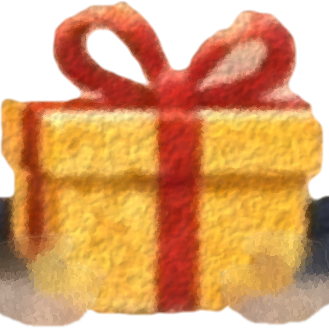
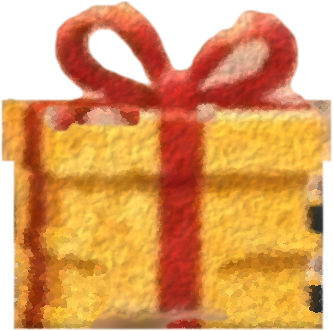
Toy Town Marines: whole shoes, the present rebuilt as its own object, a second arm holding it from below
Claude-Session: https://claude.ai/code/session_017tNAHgSCzTbES1SzX2uUW2

diff --git a/usmap/closeup/talk/index.html b/usmap/closeup/talk/index.html
@@ -53,11 +53,11 @@ ul{margin:0;padding-left:18px;color:var(--muted);display:grid;gap:5px;max-width:
 </div>
 <script>
 (function(){
-  const RIG = {"size": [1120, 1176], "k": 4, "marines": {"a": {"forearm": {"file": "forearm_a.png", "x": 254, "y": 434, "w": 246, "h": 154, "pivot": [272, 488]}, "head": {"frames": ["head_a_0.png", "head_a_1.png", "head_a_2.png", "head_a_3.png"], "x": 64, "y": 52, "pivot": [236, 312]}, "legs": {"back": {"file": "leg_a_back.png", "x": 77, "y": 683, "w": 121, "h": 441, "pivot": [136, 704]}, "front": {"file": "leg_a_front.png", "x": 194, "y": 683, "w": 152, "h": 444, "pivot": [260, 704]}}, "bounds": [64, 52, 344, 1176], "body": {"file": "body_a.png", "x": 75, "y": 292, "w": 325, "h": 433}}, "b": {"forearm": {"file": "forearm_b.png", "x": 624, "y": 430, "w": 243, "h": 156, "pivot": [848, 488]}, "head": {"frames": ["head_b_0.png", "head_b_1.png", "head_b_2.png", "head_b_3.png"], "x": 788, "y": 52, "pivot": [904, 304]}, "legs": {"back": {"file": "leg_b_back.png", "x": 914, "y": 659, "w": 110, "h": 444, "pivot": [968, 680]}, "front": {"file": "leg_b_front.png", "x": 802, "y": 659, "w": 116, "h": 445, "pivot": [868, 680]}}, "bounds": [804, 52, 1040, 1176], "body": {"file": "body_b.png", "x": 748, "y": 292, "w": 284, "h": 791}}}, "present": {"file": "present.png", "x": 400, "y": 264, "w": 329, "h": 328}};
+  const RIG = {"size": [1120, 1176], "k": 4, "marines": {"a": {"forearm": {"file": "forearm_a.png", "x": 254, "y": 434, "w": 246, "h": 154, "pivot": [272, 488]}, "forearm_far": {"file": "forearm_a_far.png", "x": 254, "y": 434, "w": 246, "h": 154, "pivot": [272, 488], "dx": -20, "dy": 52}, "head": {"frames": ["head_a_0.png", "head_a_1.png", "head_a_2.png", "head_a_3.png"], "x": 64, "y": 52, "pivot": [236, 312]}, "legs": {"back": {"file": "leg_a_back.png", "x": 77, "y": 683, "w": 121, "h": 441, "pivot": [136, 704]}, "front": {"file": "leg_a_front.png", "x": 194, "y": 683, "w": 162, "h": 444, "pivot": [260, 704]}}, "bounds": [56, 52, 376, 1176], "body": {"file": "body_a.png", "x": 75, "y": 292, "w": 325, "h": 433}}, "b": {"forearm": {"file": "forearm_b.png", "x": 623, "y": 430, "w": 244, "h": 156, "pivot": [848, 488]}, "forearm_far": {"file": "forearm_b_far.png", "x": 623, "y": 430, "w": 244, "h": 156, "pivot": [848, 488], "dx": 20, "dy": 52}, "head": {"frames": ["head_b_0.png", "head_b_1.png", "head_b_2.png", "head_b_3.png"], "x": 788, "y": 52, "pivot": [904, 304]}, "legs": {"back": {"file": "leg_b_back.png", "x": 914, "y": 659, "w": 110, "h": 444, "pivot": [968, 680]}, "front": {"file": "leg_b_front.png", "x": 759, "y": 659, "w": 159, "h": 445, "pivot": [868, 680]}}, "bounds": [744, 52, 1048, 1176], "body": {"file": "body_b.png", "x": 729, "y": 292, "w": 303, "h": 409}}}, "present": {"file": "present.png", "x": 398, "y": 264, "w": 333, "h": 331}};
   const cv = document.getElementById('cv'), ctx = cv.getContext('2d'), bub = document.getElementById('bub');
   const IMG = {}; const L = f => IMG[f] || (IMG[f] = Object.assign(new Image(), { src: f }));
   const stage = L('stage.jpg');
-  for (const m of Object.values(RIG.marines)) { L(m.body.file); L(m.forearm.file); L(m.legs.back.file); L(m.legs.front.file); m.head.frames.forEach(L); }
+  for (const m of Object.values(RIG.marines)) { L(m.body.file); L(m.forearm.file); L(m.forearm_far.file); L(m.legs.back.file); L(m.legs.front.file); m.head.frames.forEach(L); }
   L(RIG.present.file);
   const S = .74, OX = 250, OY = 285;                        // sprite -> stage
   const T = 24;
@@ -115,6 +115,8 @@ ul{margin:0;padding-left:18px;color:var(--muted);display:grid;gap:5px;max-width:
     if (m.mirror !== 1) { const cx = b.x + b.w / 2; ctx.translate(cx, 0); ctx.scale(m.mirror, 1); ctx.translate(-cx, 0); }
     for (const [side, sgn] of [['back', 1], ['front', -1]]) { const l = R.legs[side]; ctx.save(); rot(l.pivot[0], l.pivot[1], sgn * m.legs); img(l); ctx.restore(); }
     img(b);
+    const ff = R.forearm_far;                                   // the far arm, behind the present, holding it from below
+    ctx.save(); ctx.translate(ff.dx, ff.dy); rot(ff.pivot[0], ff.pivot[1], m.fa * .9); img(ff); ctx.restore();
     if (st.holder === name) present(st, m, name);
     ctx.save(); rot(R.forearm.pivot[0], R.forearm.pivot[1], m.fa); img(R.forearm); ctx.restore();
     const f = m.talk && !reduce ? mouth(t, name) : isBlink(t, name === 'a' ? 0 : 1.7) ? 3 : 0;

diff --git a/usmap/closeup/trace/rig.py b/usmap/closeup/trace/rig.py
@@ -22,11 +22,11 @@ def sp(p): return ((p[0] - X0) * K, (p[1] - Y0) * K)
 PARTS = {
     'a': dict(neck_y=613, head=MR.MARINES['a']['head'], head_pivot=(655, 618),
               forearm=[(661, 649), (700, 654), (724, 664), (724, 691), (695, 691), (667, 681), (660, 668)], elbow=(664, 662),
-              torso=[(616, 613), (674, 613), (679, 722), (615, 722)], hip=721, legsplit=645, legx=(612, 682),
+              torso=[(616, 613), (674, 613), (679, 722), (615, 722)], hip=721, legsplit=645, legx=(610, 690),
               hips={'back': (630, 716), 'front': (661, 716)}),
     'b': dict(neck_y=613, head=MR.MARINES['b']['head'], head_pivot=(822, 616),
               forearm=[(812, 648), (812, 682), (781, 686), (772, 687), (751, 686), (751, 666), (772, 654)], elbow=(808, 662),
-              torso=[(801, 613), (853, 613), (853, 716), (799, 716)], hip=715, legsplit=825, legx=(797, 856),
+              torso=[(801, 613), (853, 613), (853, 716), (799, 716)], hip=715, legsplit=825, legx=(782, 858),
               hips={'front': (813, 710), 'back': (838, 710)}),
 }
 PRESENT = [(696, 603), (778, 603), (778, 689), (696, 689)]
@@ -62,31 +62,51 @@ if __name__ == '__main__':
     rig = dict(size=[W, H], k=K, marines={}, present=None)
     body_rgb, body_a = rgb.copy(), A.copy()
     pm = poly_mask(A.shape, PRESENT, 0)
-    gloves = np.zeros_like(A)
     hsv = cv2.cvtColor((rgb * 255).astype(np.uint8), cv2.COLOR_RGB2HSV).astype(np.float32)
-    white = ((hsv[..., 1] < 70) & (hsv[..., 2] > 150)).astype(np.float32)          # the gloves are the white paint
+    white = ((hsv[..., 1] < 90) & (hsv[..., 2] > 140)).astype(np.float32)          # the gloves are the white paint
+    gloves = np.zeros_like(A)
     for nm, P in PARTS.items():
         fm = poly_mask(A.shape, P['forearm'], 1.2) * A
-        g = cv2.morphologyEx(white * (fm > .5), cv2.MORPH_CLOSE, np.ones((7, 7)))
+        g = cv2.morphologyEx(white * (fm > .5), cv2.MORPH_CLOSE, np.ones((9, 9)))
         gloves = np.maximum(gloves, cv2.GaussianBlur(cv2.dilate(g, np.ones((3, 3))), (0, 0), 1.0) * pm)
-    # the present: its pixels, minus the gloves over it; the hidden corners painted in
-    pr_a = np.clip(A * pm - gloves * 1.2, 0, 1)
-    hole = np.clip(cv2.dilate(gloves, np.ones((5, 5))) * pm, 0, 1)
-    # fill the corners from the present's own paint only: everything outside the present is masked out of the inpaint
-    ys_, xs_ = np.nonzero(pm > .5); bx0, by0, bx1, by1 = xs_.min() - 4, ys_.min() - 4, xs_.max() + 5, ys_.max() + 5
-    sub = (np.clip(rgb[by0:by1, bx0:bx1], 0, 1) * 255).astype(np.uint8)
-    msk = ((hole[by0:by1, bx0:bx1] > .05) | (pm[by0:by1, bx0:bx1] < .5)).astype(np.uint8) * 255
-    fill = cv2.inpaint(sub, msk, 15, cv2.INPAINT_TELEA).astype(np.float32) / 255
-    pre = rgb.copy(); pre[by0:by1, bx0:bx1] = np.where(msk[..., None] > 0, fill, pre[by0:by1, bx0:bx1])
-    pr_rgb = brush_fill(pre, hole, 51)
-    pr_a = np.maximum(pr_a, hole * (cv2.GaussianBlur(pm, (0, 0), 2) > .5))
+    # the present as a whole object: a clean box (lid and body) plus the traced bow; where gloves covered it, its own
+    # gold face is copied down from just above (same x, so the ribbon lines up), its edges shaded, then brushed over
+    box = np.maximum(poly_mask(A.shape, [(696, 631), (778, 631), (778, 646), (696, 646)], .8), poly_mask(A.shape, [(699, 645), (776, 645), (776, 688), (699, 688)], .8))
+    hole = np.clip(cv2.dilate((white * pm > .5).astype(np.float32) + (gloves > .05), np.ones((15, 15))), 0, 1) * (box > .3)
+    hole = cv2.GaussianBlur(hole, (0, 0), 1.5)
+    pre = rgb.copy(); dy = int(20 * K)
+    src = np.roll(rgb, dy, axis=0)
+    for _ in range(3):                                                 # copy again where the source itself was glove
+        bad = np.roll(hole, dy, axis=0) > .3
+        src = np.where(bad[..., None], np.roll(src, dy, axis=0), src)
+    pre = pre * (1 - hole[..., None]) + src * hole[..., None]
+    by1 = int(sp((0, 688))[1]); bx0, bx1 = int(sp((699, 0))[0]), int(sp((776, 0))[0])
+    shade_ = np.zeros_like(A); shade_[by1 - 10:by1, bx0:bx1] = np.linspace(0, .28, 10)[:, None]
+    shade_[:, bx1 - 8:bx1] = np.maximum(shade_[:, bx1 - 8:bx1], np.linspace(0, .2, 8)[None, :]) * (box[:, bx1 - 8:bx1] > .5)
+    pre = pre * (1 - shade_[..., None] * hole[..., None] * 1.0)
+    pr_rgb = brush_fill(pre, hole * 0, 51) if False else pre
+    from kit import Kanvas as _K
+    cpk = _K(W, H, 1, '#000000', seed=52); cpk.img[:] = pre
+    def colp(X, Y, r):
+        xi = np.clip(X.astype(int), 0, W - 1); yi = np.clip(Y.astype(int), 0, H - 1)
+        return np.clip(pre[yi, xi] * (1 + (r.rand(len(X), 1) - .5) * .08), 0, 1)
+    cpk.stip((0, 0, hole), colp, spacing=4, L=6, w=4, angfn=lambda X, Y: np.zeros(X.shape), seed=53, jit=.6, thresh=.2)
+    pr_rgb = cpk.img
+    bow = A * pm * (YY < sp((0, 634))[1])
+    pr_a = np.clip(np.maximum(box, bow), 0, 1)
     rig['present'] = crop_save('present', pr_rgb, pr_a)
     body_a = body_a * (1 - pm)
     for nm, P in PARTS.items():
         R = dict()
         fm = poly_mask(A.shape, P['forearm'], 1.2) * A
-        R['forearm'] = crop_save(f'forearm_{nm}', rgb, fm * (1 - pm) + fm * pm * np.clip(gloves * 1.3, 0, 1))
+        fa_a = fm * (1 - pm) + fm * pm * np.clip(gloves * 1.3, 0, 1)
+        R['forearm'] = crop_save(f'forearm_{nm}', rgb, fa_a)
         R['forearm']['pivot'] = list(sp(P['elbow']))
+        # the far arm: the same forearm, in the shadow side's darker paint, a little lower and further back; it holds
+        # the present from below, so both hands are on it
+        far = rgb * .78; far[..., 2] = far[..., 2] * 1.06
+        R['forearm_far'] = crop_save(f'forearm_{nm}_far', far, fa_a)
+        R['forearm_far'].update(pivot=list(sp(P['elbow'])), dx=int(-5 * K if nm == 'a' else 5 * K), dy=int(13 * K))
         # body: remove the forearm; paint the coat in where the forearm lay over the torso
         tm = poly_mask(A.shape, P['torso'], 1.0)
         behind = np.clip(fm * tm, 0, 1)
